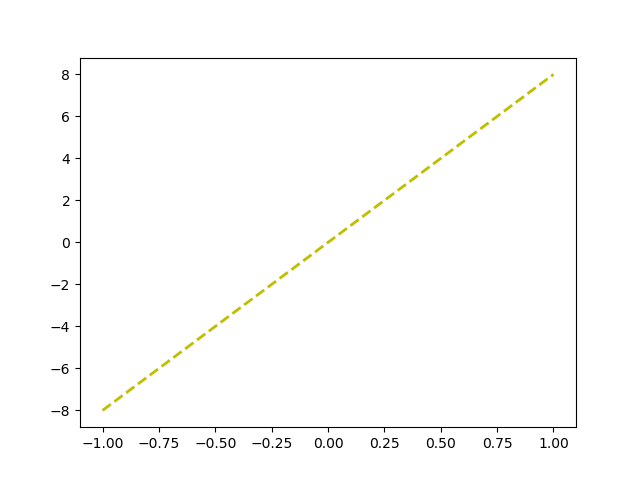
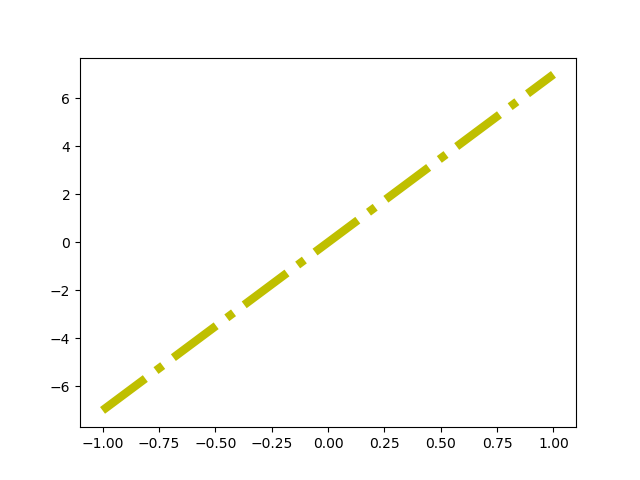
first commit

diff --git a/example.py b/example.py
@@ -2,7 +2,7 @@ import matplotlib.pyplot as plt
 import numpy as np
 
 x = np.linspace(-1, 1, 50)
-y = 8*x
+y = 7*x
 
-plt.plot(x, y,'y--',linewidth=2)
+plt.plot(x, y,'y-.',linewidth=6)
 plt.savefig('chart.png')

diff --git a/README.md b/README.md
@@ -1,4 +1,4 @@
-# Line Chart Maria 
+# Line Chart Mary 
 
 Example for my book (matplotlib, python)
 
